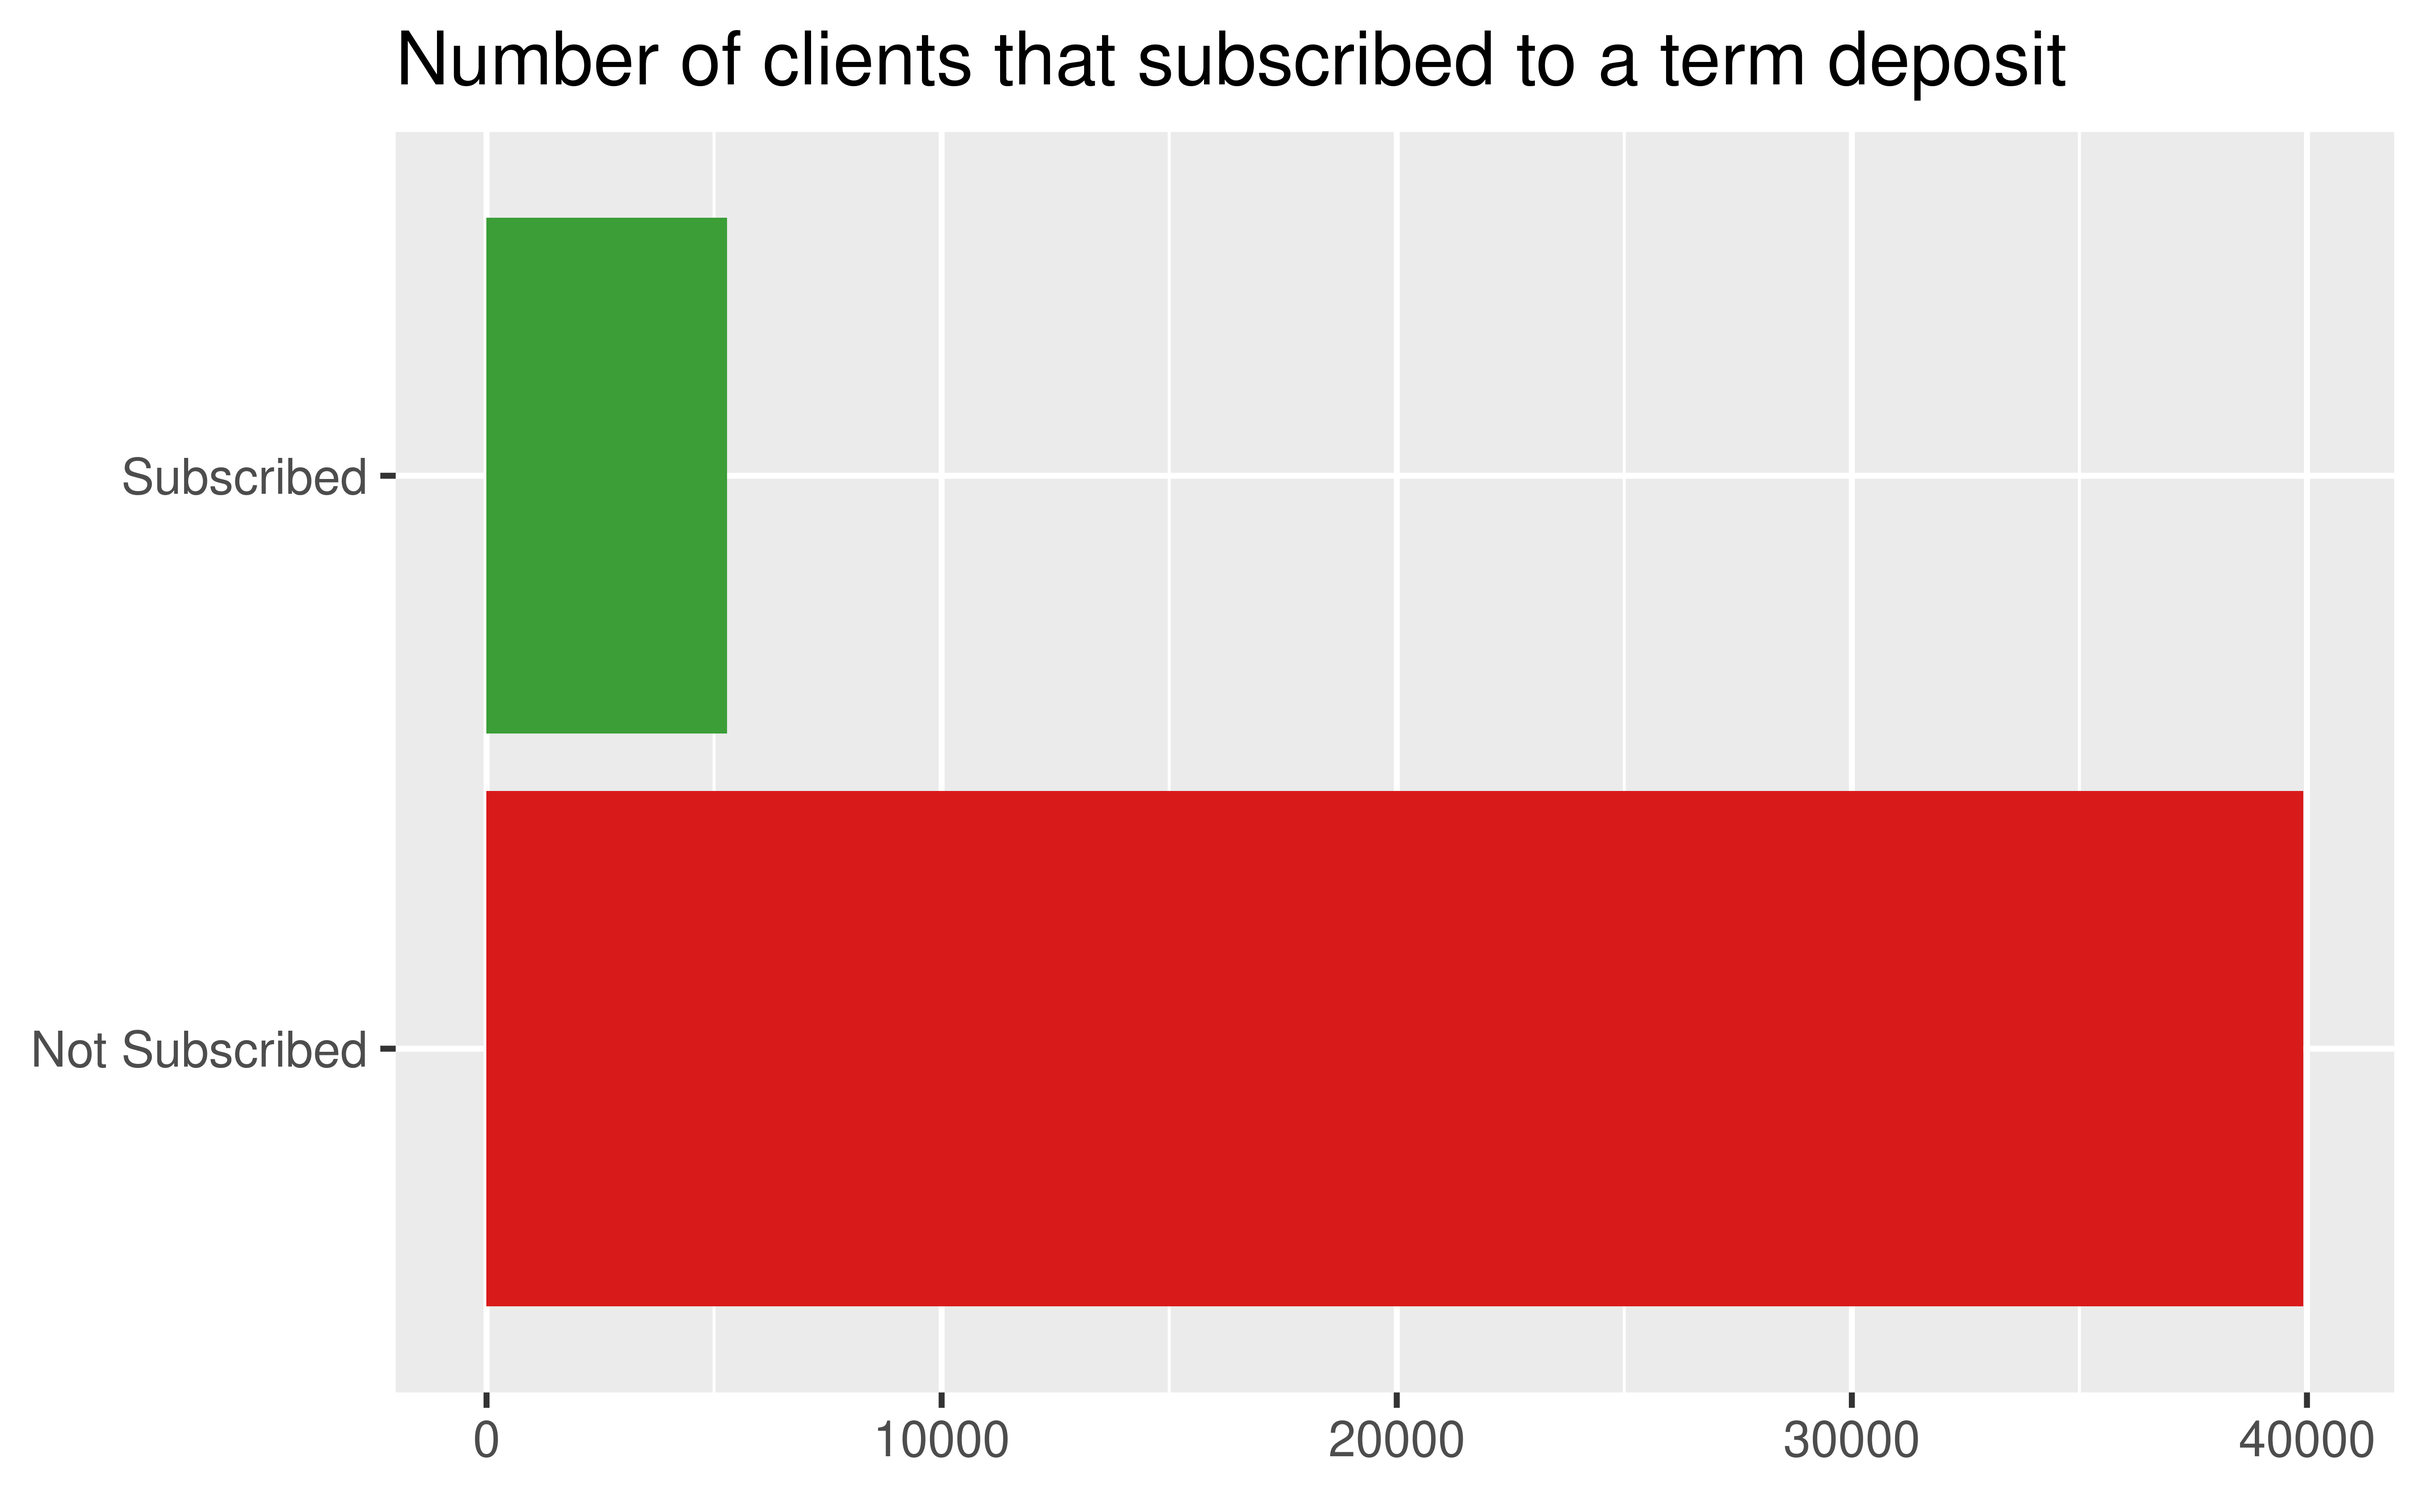
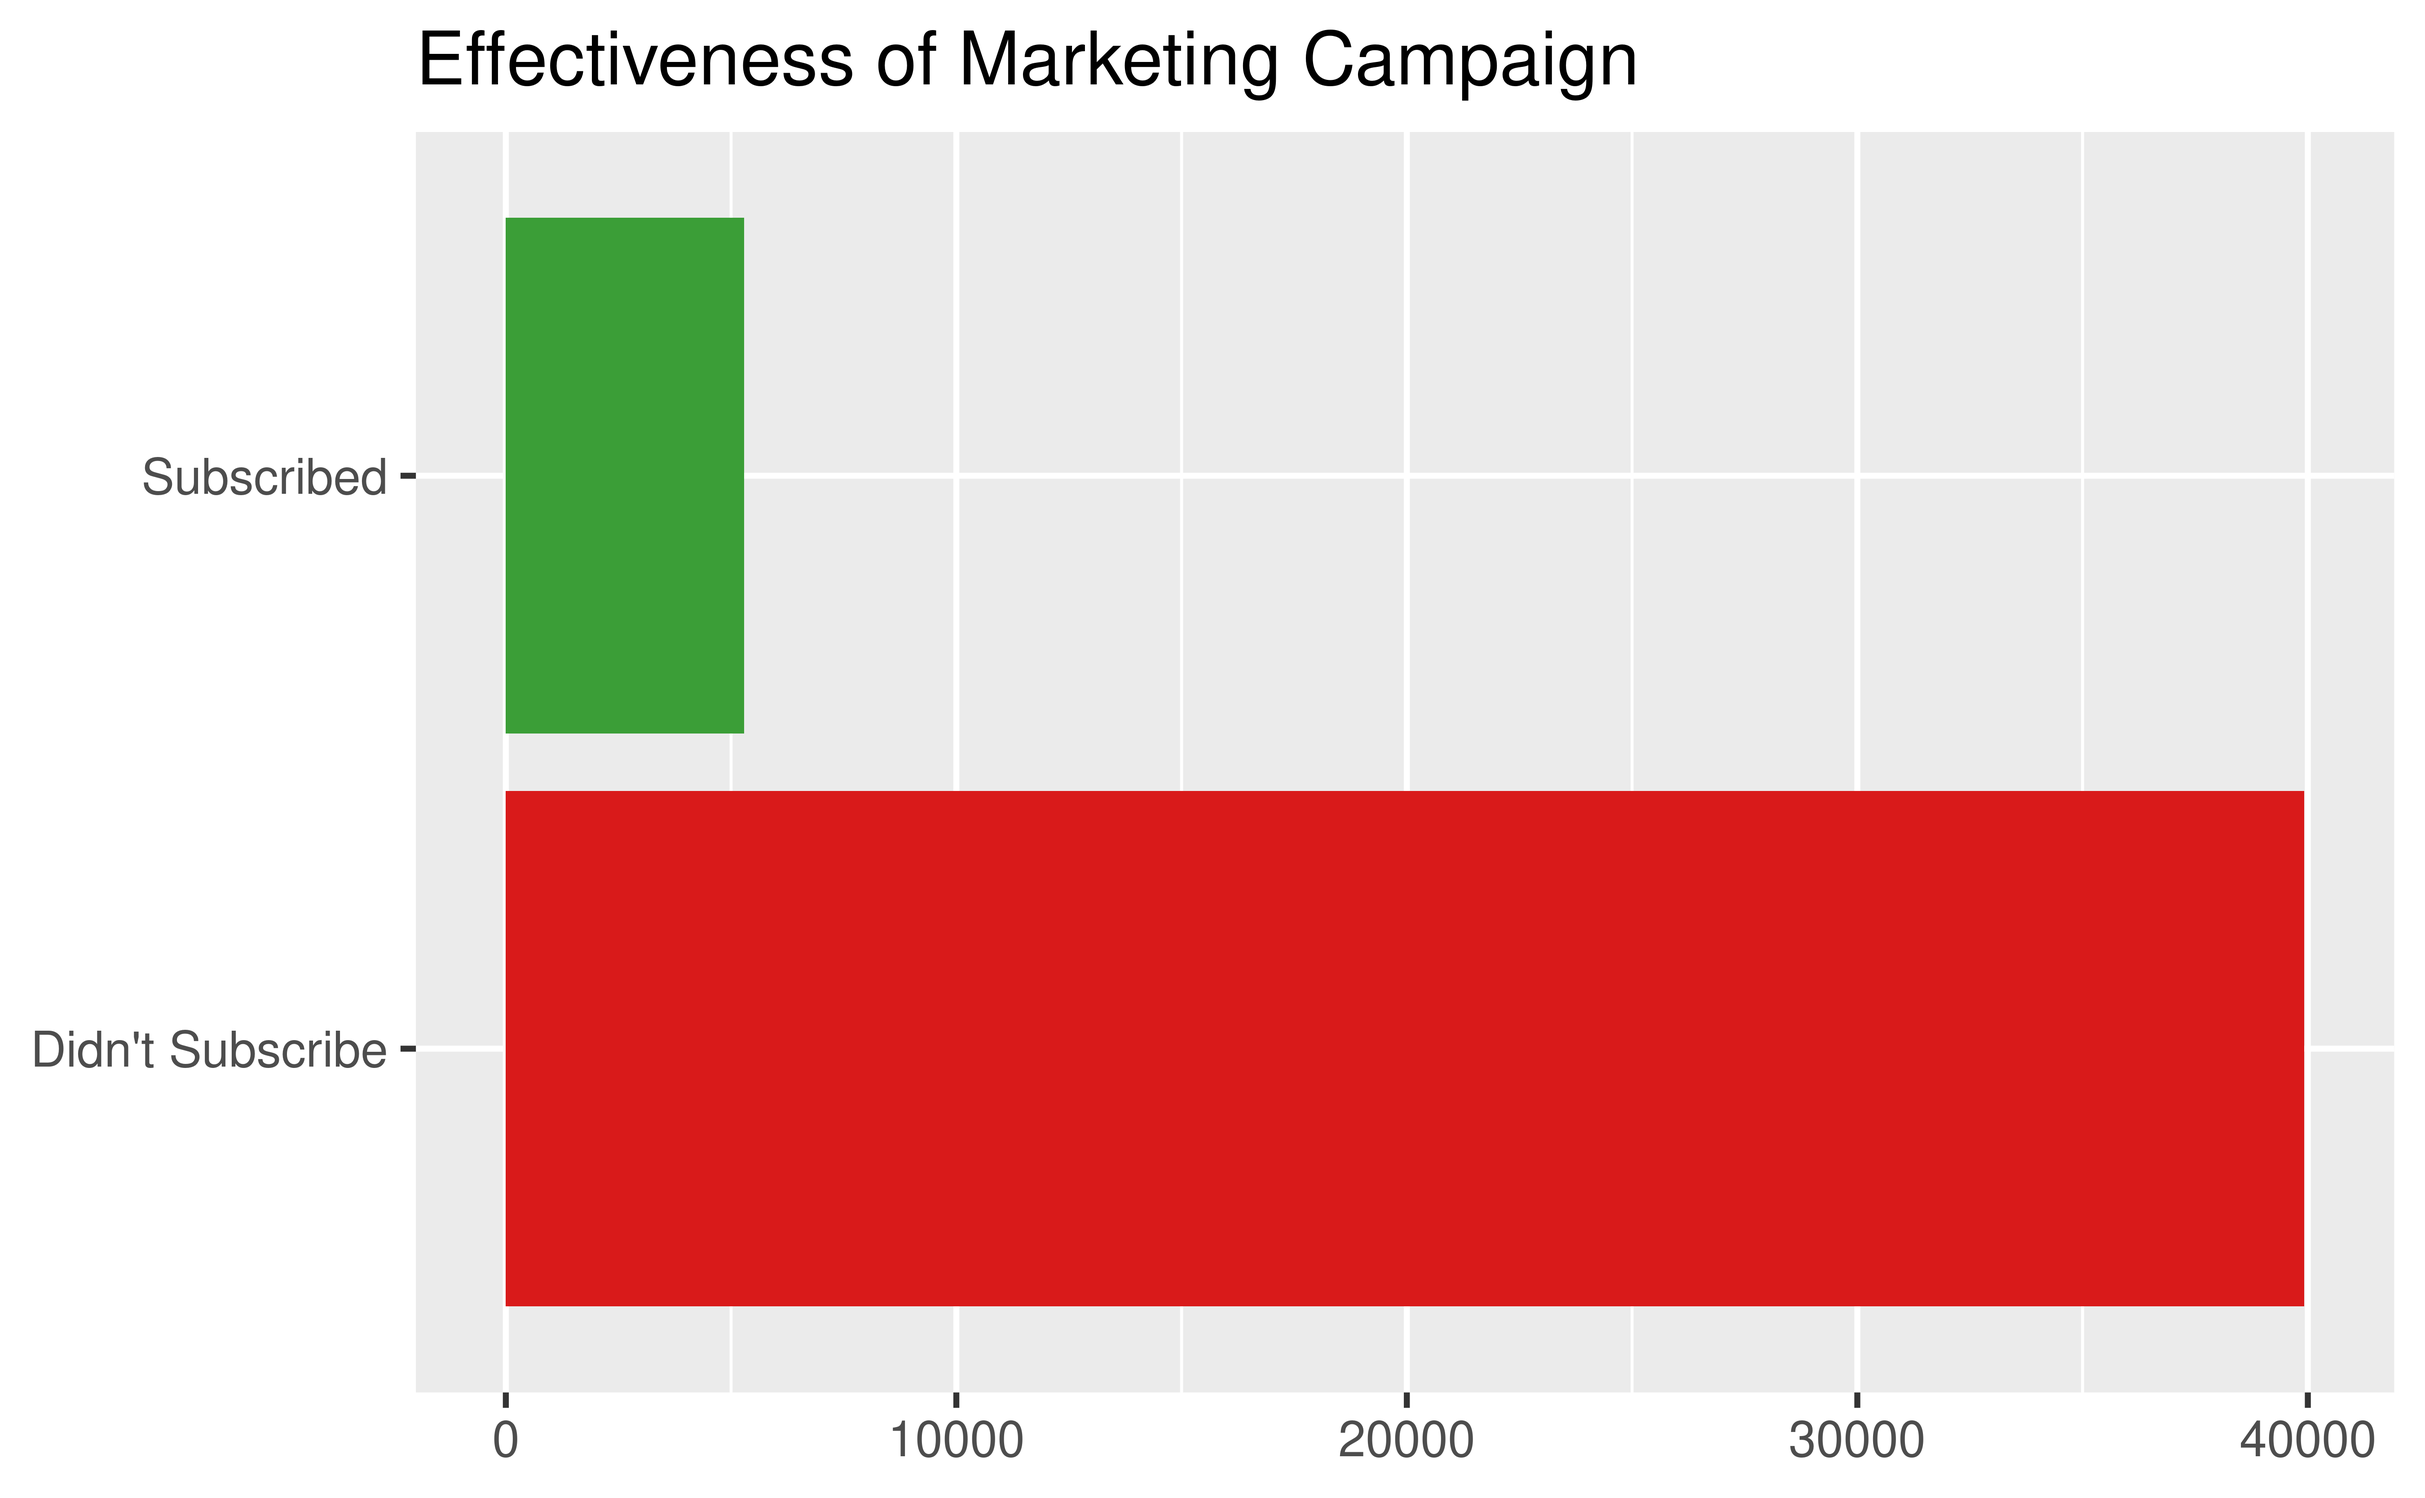
Improved initial visualizations

diff --git a/presentation/presentation.html b/presentation/presentation.html
@@ -80,12 +80,12 @@
 <section id="our-question" class="title-slide slide level1">
 <h1>Our question</h1>
 <p><img src="https://s37564.pcdn.co/wp-content/uploads/2018/08/Business-bank-account-e1534519443766.jpeg.optimal.jpeg" width="40%" /></p>
-<p>Which variables (or combinations of these) are the most important indicators when determining whether an individual will subscribe to a term deposit?</p>
+<p>Which variables (or combinations of these) are the most important indicators when determining whether an individual will subscribe to a term deposit? Can we use these to build a predictive model?</p>
 </section>
 
 <section id="our-methodology" class="title-slide slide level1">
 <h1>Our Methodology</h1>
-<p>We built a logistic regression model to answer which variables are the most important indicators when determining wether an individual will subscribe to a term deposit via phone. Firstly we made a huge grid to determine which variables have the strongest correlation with the output variable and after that we fittet a linear regression on these variables. (Will complete after we finish the presentation)</p>
+<p>We built a logistic regression model to answer which variables are the most important indicators when determining whether an individual will subscribe to a term deposit. Firstly, we made some preliminary data analysis and visualizations to get a general gist of our data. We then used advanced statistical and modelling techniques to create an adequate model and finally tested it in a separate set of data it had never seen before to properly assess its performance.</p>
 </section>
 
 <section id="our-dataset" class="title-slide slide level1">
@@ -95,17 +95,15 @@
 
 <section>
 <section id="the-general-picture" class="title-slide slide level1">
-<h1>The general picture</h1>
-<p>The general outcome of the company’s campaign to get clients to subscribe to term deposits.</p>
-<div class="fragment">
+<h1>The General Picture</h1>
+<p>The results of the marketing campaign are as follows:</p>
 <p><img src="presentation_files/figure-revealjs/campaign_success-1.png" width="70%" /></p>
-</div>
 </section>
 <section class="slide level2">
 
-<p>Could the client’s jobs have an impact on whether they subscribe to term deposits?</p>
+<p>Could the client’s jobs have had an impact on whether they subscribed to term deposits?</p>
 <div class="fragment">
-<p><img src="presentation_files/figure-revealjs/job_impact-1.png" width="900%" /></p>
+<p><img src="presentation_files/figure-revealjs/job_impact-1.png" width="90%" /></p>
 </div>
 </section></section>
 <section id="our-model-plan" class="title-slide slide level1">
@@ -118,170 +116,14 @@
 
 </section>
 
-<section>
 <section id="our-recipe" class="title-slide slide level1">
 <h1>Our recipe</h1>
-<div class="fragment">
-<ul>
-<li>Our workflow</li>
-</ul>
-<p><img src="presentation_files/figure-revealjs/plot-iris-1.png" width="80%" /></p>
-</div>
+
 </section>
-<section id="plot-and-text" class="slide level2">
-<h2>Plot and text</h2>
-<div class="columns">
-<div class="column">
-<ul>
-<li>Some text</li>
-<li>goes here</li>
-</ul>
-</div><div class="column">
-<p><img src="presentation_files/figure-revealjs/unnamed-chunk-1-1.png" width="100%" /></p>
-</div>
-</div>
-</section>
-<section id="different-widths" class="slide level2">
-<h2>Different widths</h2>
-<div class="columns">
-<div class="column" style="width:40%;">
-<ul>
-<li>Some text</li>
-<li>goes here</li>
-</ul>
-</div><div class="column" style="width:60%;">
-<p><img src="presentation_files/figure-revealjs/unnamed-chunk-2-1.png" width="100%" /></p>
-</div>
-</div>
-</section></section>
-<section id="tables" class="title-slide slide level1">
-<h1>Tables</h1>
-<p>If you want to generate a table, make sure it is in the HTML format (instead of Markdown or other formats), e.g.,</p>
-<table>
-<thead>
-<tr>
-<th style="text-align:right;">
-Sepal.Length
-</th>
-<th style="text-align:right;">
-Sepal.Width
-</th>
-<th style="text-align:right;">
-Petal.Length
-</th>
-<th style="text-align:right;">
-Petal.Width
-</th>
-<th style="text-align:left;">
-Species
-</th>
-</tr>
-</thead>
-<tbody>
-<tr>
-<td style="text-align:right;">
-5.1
-</td>
-<td style="text-align:right;">
-3.5
-</td>
-<td style="text-align:right;">
-1.4
-</td>
-<td style="text-align:right;">
-0.2
-</td>
-<td style="text-align:left;">
-setosa
-</td>
-</tr>
-<tr>
-<td style="text-align:right;">
-4.9
-</td>
-<td style="text-align:right;">
-3.0
-</td>
-<td style="text-align:right;">
-1.4
-</td>
-<td style="text-align:right;">
-0.2
-</td>
-<td style="text-align:left;">
-setosa
-</td>
-</tr>
-<tr>
-<td style="text-align:right;">
-4.7
-</td>
-<td style="text-align:right;">
-3.2
-</td>
-<td style="text-align:right;">
-1.3
-</td>
-<td style="text-align:right;">
-0.2
-</td>
-<td style="text-align:left;">
-setosa
-</td>
-</tr>
-<tr>
-<td style="text-align:right;">
-4.6
-</td>
-<td style="text-align:right;">
-3.1
-</td>
-<td style="text-align:right;">
-1.5
-</td>
-<td style="text-align:right;">
-0.2
-</td>
-<td style="text-align:left;">
-setosa
-</td>
-</tr>
-<tr>
-<td style="text-align:right;">
-5.0
-</td>
-<td style="text-align:right;">
-3.6
-</td>
-<td style="text-align:right;">
-1.4
-</td>
-<td style="text-align:right;">
-0.2
-</td>
-<td style="text-align:left;">
-setosa
-</td>
-</tr>
-<tr>
-<td style="text-align:right;">
-5.4
-</td>
-<td style="text-align:right;">
-3.9
-</td>
-<td style="text-align:right;">
-1.7
-</td>
-<td style="text-align:right;">
-0.4
-</td>
-<td style="text-align:left;">
-setosa
-</td>
-</tr>
-</tbody>
-</table>
+
+<section id="our-workflow" class="title-slide slide level1">
+<h1>Our workflow</h1>
+
 </section>
 
 <section id="images" class="title-slide slide level1">
